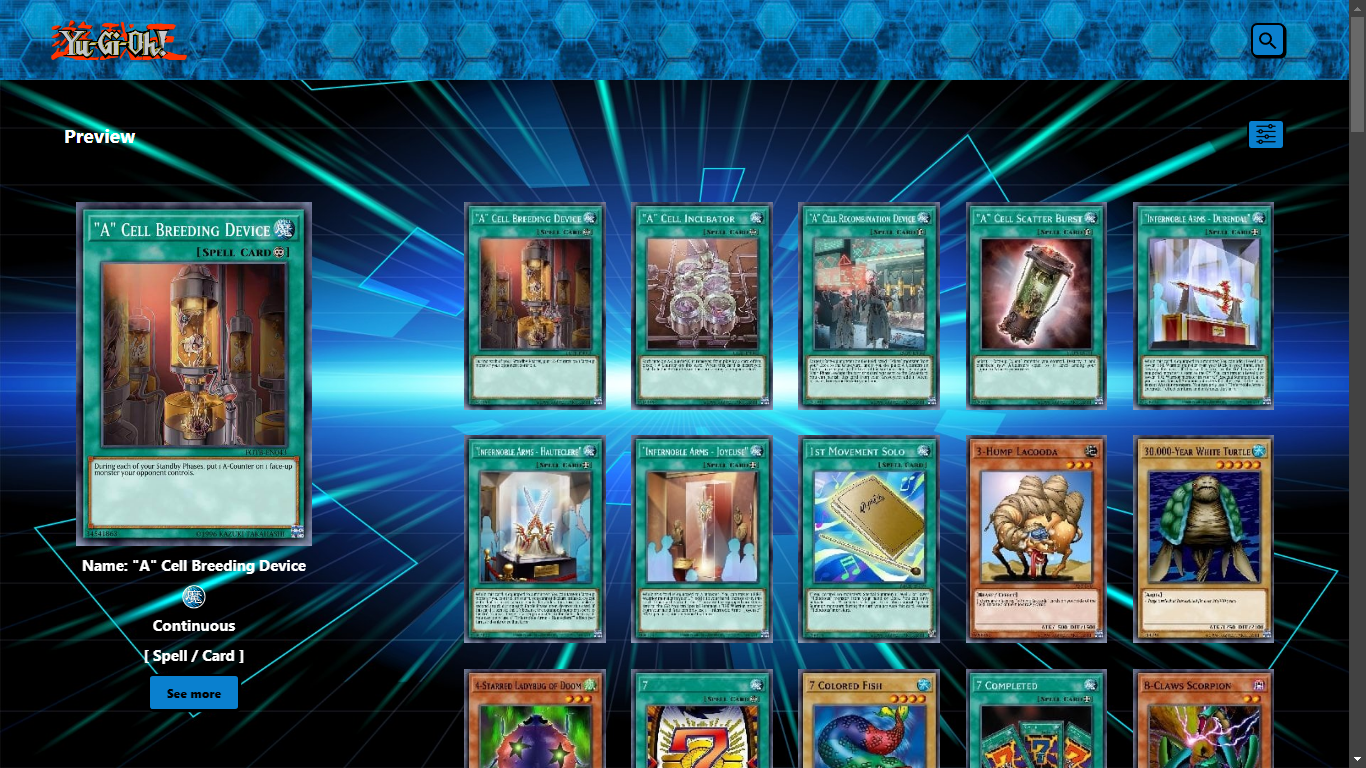
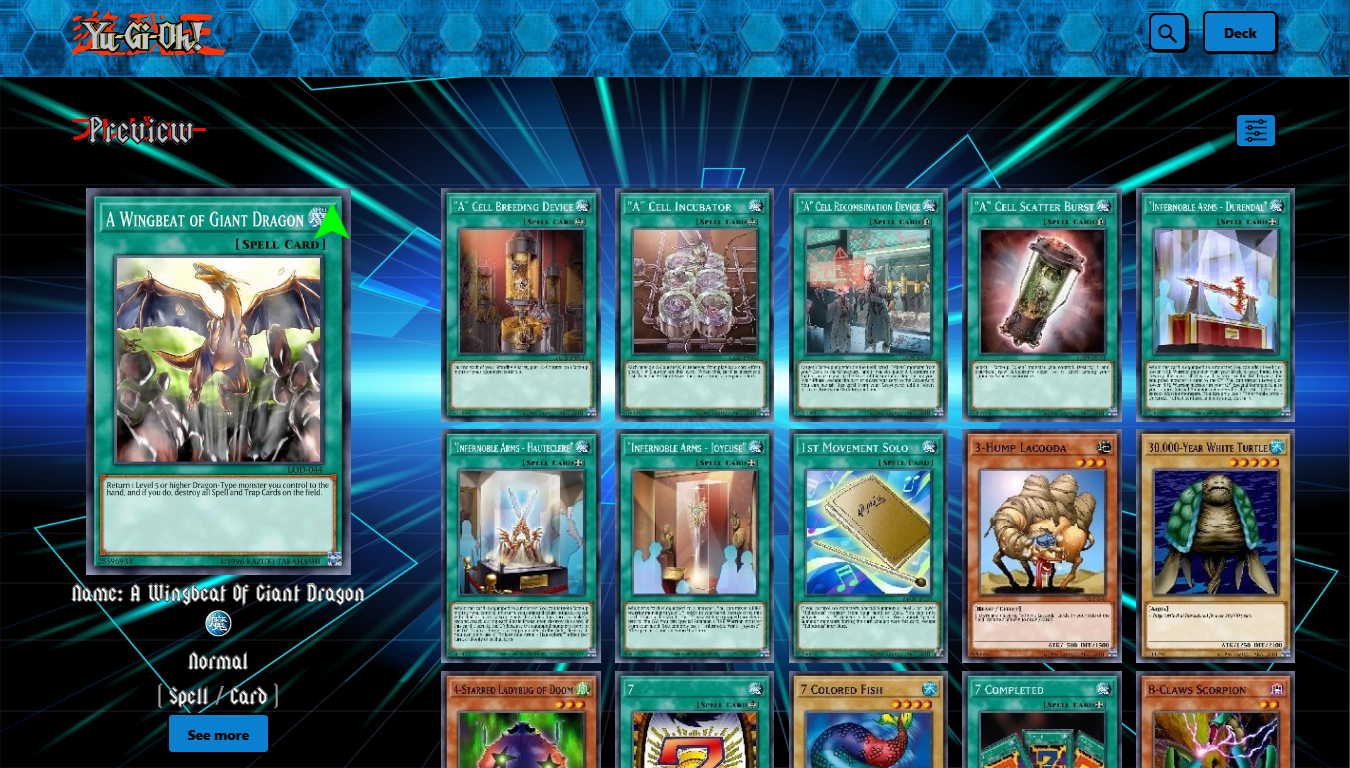
preview

diff --git a/client/styles/Home.module.css b/client/styles/Home.module.css
@@ -41,7 +41,7 @@
   justify-content: center;
   flex-wrap: wrap;
   min-width: 55em;
-  max-width: 55em;
+  max-width: 70%;
 }
 
 .card {
